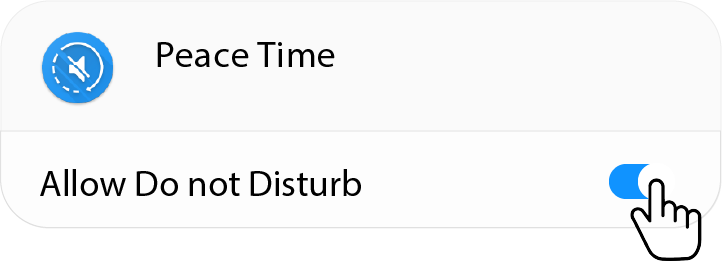
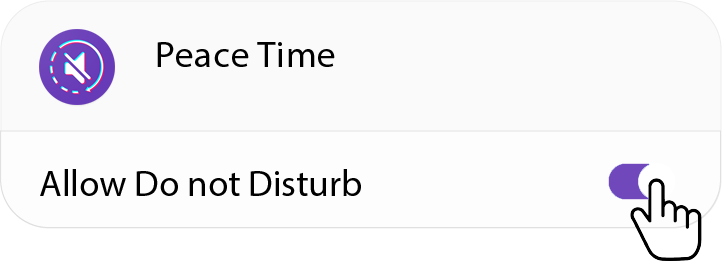
updates

Changed region(s): [[0.0305, 0.092, 0.1828, 0.3985], [0.8227, 0.613, 0.9141, 0.7663]]

diff --git a/lib/screen/SettingsScreen.dart b/lib/screen/SettingsScreen.dart
@@ -79,6 +79,8 @@ class _SettingsScreenState extends State<SettingsScreen> {
 
   @override
   Widget build(BuildContext context) {
+    var _settingsProvider =
+        Provider.of<SettingsProvider>(context, listen: false);
     return Scaffold(
       // backgroundColor: Colors.black,
       appBar: AppBar(
@@ -88,7 +90,7 @@ class _SettingsScreenState extends State<SettingsScreen> {
         ),
         title: Text('Settings'),
       ),
-      body: Provider.of<SettingsProvider>(context).isLoading
+      body: _settingsProvider.isLoading
           ? const Center(child: CircularProgressIndicator())
           : RefreshIndicator(
               onRefresh: () async =>
@@ -118,18 +120,15 @@ class _SettingsScreenState extends State<SettingsScreen> {
                         scale: 0.8,
                         alignment: Alignment.centerRight,
                         child: CupertinoSwitch(
-                          value: Provider.of<SettingsProvider>(context,
-                                  listen: false)
-                              .settings
-                              .forgroundServiceStatus,
+                          value:
+                              _settingsProvider.settings.forgroundServiceStatus,
                           activeColor: Theme.of(context).primaryColor,
                           // trackColor: Colors.black,
                           onChanged: (bool value) async {
                             // await Provider.of<SettingsProvider>(context,
                             //         listen: false)
                             //     .isPendingValue(true);
-                            await Provider.of<SettingsProvider>(context,
-                                    listen: false)
+                            await _settingsProvider
                                 .toggleForgroundServiceStatus();
                           },
                         ),
@@ -153,9 +152,8 @@ class _SettingsScreenState extends State<SettingsScreen> {
                           scale: 0.8,
                           alignment: Alignment.centerRight,
                           child: CupertinoSwitch(
-                            value: Provider.of<SettingsProvider>(context)
-                                .settings
-                                .isDoNotDisturbPermissionStatus,
+                            value: _settingsProvider
+                                .settings.isDoNotDisturbPermissionStatus,
                             activeColor: Theme.of(context).primaryColor,
                             // trackColor: Colors.black,
                             onChanged: (bool value) {},
@@ -178,10 +176,8 @@ class _SettingsScreenState extends State<SettingsScreen> {
                         scale: 0.8,
                         alignment: Alignment.centerRight,
                         child: CupertinoSwitch(
-                          value: Provider.of<SettingsProvider>(context,
-                                  listen: false)
-                              .settings
-                              .introductionScreenStatus,
+                          value: _settingsProvider
+                              .settings.introductionScreenStatus,
                           activeColor: Theme.of(context).primaryColor,
                           // trackColor: Colors.black,
                           onChanged: (bool value) =>
@@ -206,9 +202,7 @@ class _SettingsScreenState extends State<SettingsScreen> {
                         scale: 0.8,
                         alignment: Alignment.centerRight,
                         child: CupertinoSwitch(
-                          value: Provider.of<SettingsProvider>(context)
-                              .settings
-                              .darkMode,
+                          value: _settingsProvider.settings.darkMode,
                           activeColor: Theme.of(context).primaryColor,
                           // trackColor: Colors.black,
                           onChanged: (bool value) =>

diff --git a/lib/screen/AppIntroductionScreen.dart b/lib/screen/AppIntroductionScreen.dart
@@ -1,12 +1,10 @@
 import 'package:flutter/material.dart';
-import 'package:flutter/services.dart';
 import 'package:introduction_screen/introduction_screen.dart';
 import 'package:peace_time/NavigationScreen.dart';
 import 'package:peace_time/constant.dart';
 import 'package:peace_time/controller/DBController.dart';
 import 'package:peace_time/controller/SettingsController.dart';
 import 'package:peace_time/job/ForgroundService.dart';
-import 'package:flutter/cupertino.dart';
 
 class AppIntroductionScreen extends StatefulWidget {
   @override
@@ -23,14 +21,14 @@ class _AppIntroductionScreenState extends State<AppIntroductionScreen> {
       await DBController.toggleIntroductionScreenStatus(false);
 
       if (await ForgroundService.isRunningForgroundService() == false) {
-        await ForgroundService.startForgroundServiceAndTask();
+        await ForgroundService.startForgroundService();
       }
       Navigator.of(context).pushReplacement(MaterialPageRoute(
           builder: (BuildContext context) => NavigationScreen()));
     }
   }
 
-  Widget _buildImage({String assetName, double width = 300.0}) {
+  Widget _buildImage({String assetName, double width = 100.0}) {
     return Align(
       child: Image.asset(assetName, width: width),
       alignment: Alignment.center,
@@ -41,24 +39,24 @@ class _AppIntroductionScreenState extends State<AppIntroductionScreen> {
   Widget build(BuildContext context) {
     const bodyStyle = TextStyle(
       fontSize: 19.0,
-      // color: Colors.lightGreen,
+      // color: Colors.deepPurple,
     );
     const pageDecoration = const PageDecoration(
       titleTextStyle: TextStyle(
         fontSize: 28.0,
         fontWeight: FontWeight.w700,
-        // color: Colors.lightGreen.shade100
+        // color: Colors.deepPurple.shade100
       ),
       bodyTextStyle: bodyStyle,
       descriptionPadding: EdgeInsets.fromLTRB(16.0, 0.0, 16.0, 16.0),
-      // pageColor: Colors.lightGreen,
+      // pageColor: Colors.deepPurple,
       imagePadding: EdgeInsets.zero,
       fullScreen: false,
     );
 
     var introductionScreen = IntroductionScreen(
       key: introKey,
-      globalBackgroundColor: Colors.lightGreen.shade100,
+      globalBackgroundColor: Colors.grey.shade100,
       color: Colors.black,
       onDone: () => _onIntroEnd(context),
       //onSkip: () => _onIntroEnd(context), // You can override onSkip callback
@@ -86,17 +84,17 @@ class _AppIntroductionScreenState extends State<AppIntroductionScreen> {
           decoration: pageDecoration,
         ),
         PageViewModel(
-          title: "30m Quick Silent",
-          body: "One tap to silent your phone from now to next 30 minutes.",
-          image:
-              _buildImage(assetName: 'assets/30mquicksilent.png', width: 275.0),
+          title: "Quick Silent",
+          body:
+              "One tap to silent your phone from now to next 30 or custom minutes.",
+          image: _buildImage(assetName: Constant.APPICON),
           decoration: pageDecoration,
         ),
         PageViewModel(
           title: "Only Permission",
           body:
               "Please allow do not disturb mode.\n Otherwise, your phone will not turn on silent or vibrate mode according to your schedule.",
-          image: _buildImage(assetName: 'assets/donotdisturb.png'),
+          image: _buildImage(assetName: 'assets/donotdisturb.png', width: 300),
           footer: OutlinedButton(
             onPressed: () async =>
                 await SettingsController.openDoNotDisturbSettings(),
@@ -119,6 +117,7 @@ class _AppIntroductionScreenState extends State<AppIntroductionScreen> {
 
     // to hide both:
     // SystemChrome.setEnabledSystemUIOverlays([]);
+    // print(Theme.of(context).brightness);
 
     return introductionScreen;
   }

diff --git a/lib/provider/ScheduleProvider.dart b/lib/provider/ScheduleProvider.dart
@@ -1,9 +1,6 @@
-import 'package:intl/intl.dart';
 import 'package:flutter/cupertino.dart';
 import 'package:flutter/material.dart';
 import 'package:peace_time/controller/DBController.dart';
-import 'package:peace_time/controller/ScheduleController.dart';
-import 'package:peace_time/job/ForgroundService.dart';
 import 'package:peace_time/model/ScheduleModel.dart';
 
 class ScheduleProvider with ChangeNotifier {
@@ -141,7 +138,6 @@ class ScheduleProvider with ChangeNotifier {
       String encodedSchedulesList = Schedule.encode(schedules);
       await DBController.setSchedules(encodedSchedulesList);
 
-      await ForgroundService.refresh();
       notifyListeners();
     }
   }
@@ -162,7 +158,6 @@ class ScheduleProvider with ChangeNotifier {
       String encodedSchedulesList = Schedule.encode(schedules);
       await DBController.setSchedules(encodedSchedulesList);
 
-      await ForgroundService.refresh();
       schedules = Schedule.decode(encodedSchedulesList);
       notifyListeners();
     }
@@ -177,7 +172,6 @@ class ScheduleProvider with ChangeNotifier {
       await DBController.setSchedules(encodedSchedulesList);
     }
 
-    await ForgroundService.refresh();
     notifyListeners();
   }
 
@@ -218,7 +212,6 @@ class ScheduleProvider with ChangeNotifier {
     isAllSelectedMode = false;
     selectedMode = false;
 
-    await ForgroundService.refresh();
     notifyListeners();
   }
 
@@ -259,7 +252,6 @@ class ScheduleProvider with ChangeNotifier {
     await DBController.setSchedules(encodedSchedulesList);
 
     // this line should place before set provider schedules list, otherwise app will crash
-    await ForgroundService.refresh();
 
     schedules = Schedule.decode(encodedSchedulesList);
 
@@ -269,7 +261,7 @@ class ScheduleProvider with ChangeNotifier {
   Future<void> restoreDB() async {
     await DBController.restore();
     schedules = List<Schedule>.empty(growable: true);
-    await ForgroundService.refresh();
+
     notifyListeners();
   }
 }

diff --git a/lib/provider/SettingsProvider.dart b/lib/provider/SettingsProvider.dart
@@ -39,7 +39,6 @@ class SettingsProvider with ChangeNotifier {
 
   Future<void> refresh() async {
     initialize();
-    notifyListeners();
   }
 
   Future<void> toggleDarkMode() async {
@@ -59,15 +58,11 @@ class SettingsProvider with ChangeNotifier {
   }
 
   Future<void> toggleForgroundServiceStatus() async {
-    Timer(Duration(seconds: 1), () async {
-      settings.forgroundServiceStatus
-          ? await ForgroundService.stopForgroundService()
-          : await ForgroundService.startForgroundServiceAndTask();
-      settings.forgroundServiceStatus =
-          await ForgroundService.isRunningForgroundService();
-      // isPending = false;
-      notifyListeners();
-    });
+    settings.forgroundServiceStatus
+        ? await ForgroundService.stopForgroundService()
+        : await ForgroundService.startForgroundService();
+    settings.forgroundServiceStatus = !settings.forgroundServiceStatus;
+    notifyListeners();
   }
 
   Future<void> toggleIntroductionScreenStatus() async {
@@ -77,8 +72,7 @@ class SettingsProvider with ChangeNotifier {
     await DBController.toggleIntroductionScreenStatus(
         !settings.introductionScreenStatus);
 
-    settings.introductionScreenStatus =
-        await DBController.getIntroductionScreenStatus();
+    settings.introductionScreenStatus = !settings.introductionScreenStatus;
     notifyListeners();
   }
 }

diff --git a/lib/job/ForgroundService.dart b/lib/job/ForgroundService.dart
@@ -16,21 +16,22 @@ class ForgroundService {
   static startForgroundService() async {
     FlutterBackgroundService().sendData({"action": "setAsForeground"});
     FlutterBackgroundService().start();
+
+    print("Forground Service Started");
   }
 
   static stopForgroundService() async {
     FlutterBackgroundService().sendData({"action": "stopService"});
+
+    print("Forground Service Stopped");
   }
 
   static Future<bool> isRunningForgroundService() async {
     final service = FlutterBackgroundService();
     bool isRunning = await service.isServiceRunning();
+    print("Is Running Forground Service: " + isRunning.toString());
     return isRunning;
   }
-
-  static Future<void> startForgroundServiceAndTask() async {}
-
-  static Future<void> stopForgroundServiceAndTask() async {}
 }
 
 Future<void> refreshForegroundServiceNotification(

diff --git a/lib/main.dart b/lib/main.dart
@@ -11,9 +11,11 @@ void main() {
   SystemChrome.setSystemUIOverlayStyle(const SystemUiOverlayStyle(
     statusBarColor: Colors.transparent,
     statusBarIconBrightness: Brightness.dark,
+    // systemNavigationBarColor: Colors.transparent,
+    // systemNavigationBarIconBrightness: Brightness.dark,
   ));
   WidgetsFlutterBinding.ensureInitialized();
-  // initializeService();
+  initializeService();
   // SystemChrome.setEnabledSystemUIMode(SystemUiMode.manual, overlays: [SystemUiOverlay.top]);
   runApp(
     MultiProvider(

diff --git a/lib/constant.dart b/lib/constant.dart
@@ -16,7 +16,7 @@ class Constant {
   static const String SP_DARKMODE = "__dark_mode";
   static const String SP_RESET = "__reset_v8";
 
-  static const EMPTY_SVG_LIGHTGREEN = 'assets/empty_lightgreen.svg';
+  static const EMPTY_SVG = 'assets/empty.svg';
 
   static const APPICON = 'assets/ic_launcher.png';
   static const APPICON_SVG = 'assets/ic_launcher.svg';

diff --git a/lib/screen/widgets/HelperWidgets.dart b/lib/screen/widgets/HelperWidgets.dart
@@ -136,7 +136,7 @@ Widget emptyWidget(BuildContext context) {
   return Center(
     child: Container(
       width: MediaQuery.of(context).size.width / 1.5,
-      child: SvgPicture.asset(Constant.EMPTY_SVG_LIGHTGREEN),
+      child: SvgPicture.asset(Constant.EMPTY_SVG),
     ),
   );
 }
